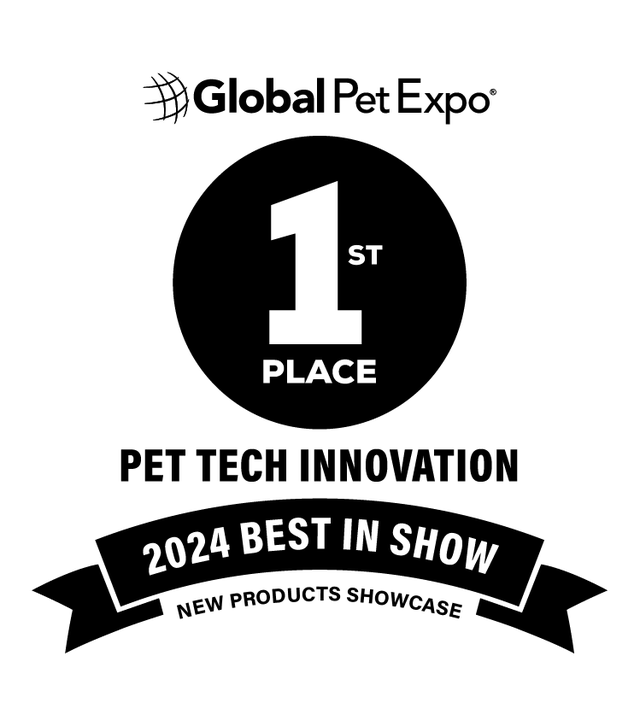
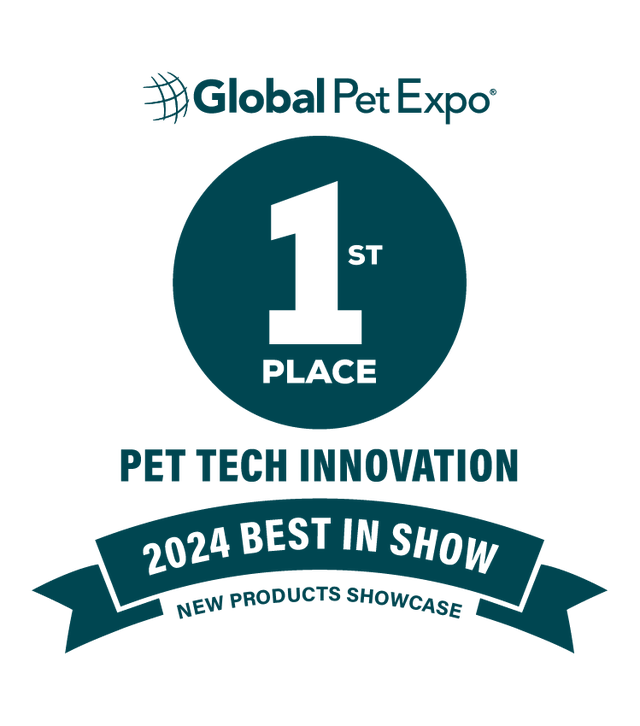
Awards: compact colour carousel instead of the 4-up monotone strip
- .awards-strip is now copy + controls (left) and a one-badge carousel
  (right): ~215px tall vs ~300px. Slides sit on brand washes (blush /
  periwinkle / mint / butter); badges render in deep teal via currentColor.
  The official GPE 2024 PNG was recoloured black -> #004651 in-canvas with
  alpha preserved.
- Carousel JS refactored into a reusable carousel() helper (track, prev/next,
  optional counter or dots, IntersectionObserver-driven index, autoplay that
  stops on interaction). Hero uses counter; awards use 4 dots, 3.5s.

QA: 69/69 (awards: 4 slides, captions, labels, text-in-band, compact
height, dots, relative next, dot jump, no console errors).

Changed region(s): [[0.0625, 0.0909, 0.9375, 0.9091]]

diff --git a/index.html b/index.html
@@ -249,15 +249,29 @@
   .logo-target { height: 30px; }
   .logo-petco { height: 24px; }
 
-  /* awards */
-  .awards-strip { background: var(--white); border: var(--teal-hair); border-radius: var(--r-card); padding: 1.05rem 1.35rem 1.25rem; margin-top: 1.15rem; box-shadow: var(--shadow); }
-  .awards-strip .label { font-size: .68rem; font-weight: 800; letter-spacing: .1em; text-transform: uppercase; color: var(--uproot-deep); margin-bottom: .9rem; }
-  .awards { margin: 0; padding: 0; list-style: none; display: grid; grid-template-columns: repeat(4, 1fr); gap: 1rem 1.5rem; }
-  .awards li { display: flex; flex-direction: column; align-items: center; text-align: center; gap: .6rem; }
-  .badge { display: block; height: 190px; width: auto; max-width: 100%; }
-  .awards figcaption { font-size: .86rem; font-weight: 700; color: var(--ink); line-height: 1.3; }
-  .awards figcaption small { display: block; font-size: .76rem; font-weight: 600; color: var(--muted); margin-top: .1rem; }
-  .badge text { font-family: var(--font); fill: #000; text-anchor: middle; font-weight: 800; }
+  /* awards: compact strip, one badge at a time */
+  .awards-strip {
+    margin-top: 1.15rem; background: var(--white); border: var(--teal-hair); border-radius: var(--r-card); box-shadow: var(--shadow);
+    display: grid; grid-template-columns: 1.1fr .9fr; align-items: center; gap: 1.25rem; padding: 1.1rem 1.35rem 1.1rem;
+  }
+  .awards-copy .label { font-size: .68rem; font-weight: 800; letter-spacing: .1em; text-transform: uppercase; color: var(--uproot-deep); margin-bottom: .45rem; }
+  .awards-h { margin: 0 0 .3rem; font-size: 1.25rem; font-weight: 800; letter-spacing: -.015em; color: var(--ink); line-height: 1.2; }
+  .awards-p { margin: 0 0 .9rem; font-size: .9rem; color: var(--muted); }
+  .car-btn-sm { width: 2rem; height: 2rem; font-size: .9rem; }
+  .dots { display: inline-flex; gap: .4rem; padding: 0 .25rem; }
+  .dot { width: .55rem; height: .55rem; border-radius: 50%; border: 0; padding: 0; background: rgba(0, 70, 81, .2); cursor: pointer; transition: .15s ease; }
+  .dot[aria-current="true"] { background: var(--uproot-blue); transform: scale(1.25); }
+  .award-track-wrap { border-radius: 16px; overflow: hidden; }
+  .award-slides { height: auto; scrollbar-width: none; }
+  .award-slide {
+    flex: 0 0 100%; margin: 0; height: 176px; scroll-snap-align: start; scroll-snap-stop: always;
+    display: flex; align-items: center; gap: 1rem; padding: .9rem 1.1rem; color: var(--uproot-deep);
+  }
+  .wash-blush { background: var(--blush); } .wash-periwinkle { background: var(--periwinkle); } .wash-mint { background: var(--mint); } .wash-butter { background: var(--butter); }
+  .badge { display: block; height: 150px; width: auto; flex-shrink: 0; }
+  .award-slide figcaption { font-size: 1rem; font-weight: 800; color: var(--ink); line-height: 1.25; }
+  .award-slide figcaption small { display: block; font-size: .82rem; font-weight: 600; color: var(--muted); margin-top: .2rem; }
+  .badge text { font-family: var(--font); fill: currentColor; text-anchor: middle; font-weight: 800; }
   .badge .b-show { font-size: 52px; letter-spacing: .02em; }
   .badge .b-one { fill: #fff; font-size: 210px; letter-spacing: -.04em; }
   .badge .b-st { fill: #fff; font-size: 44px; text-anchor: start; }
@@ -441,8 +455,9 @@
     .retailer-bar .names li + li { border-left: 0; padding-left: 0; }
     .retailer-bar .names { gap: .75rem 1.25rem; }
     .retailer-bar .doors { margin-left: 0; }
-    .awards { grid-template-columns: repeat(2, 1fr); gap: 1.25rem 1rem; }
-    .badge { height: 150px; }
+    .awards-strip { grid-template-columns: 1fr; gap: .9rem; }
+    .award-slide { height: 150px; }
+    .badge { height: 126px; }
     .hero-media { max-width: none; justify-self: stretch; }
     .hero-cap { flex-wrap: wrap; }
     .wait-actions { justify-content: flex-start; }
@@ -696,59 +711,70 @@ OTHER DEALINGS IN THE FONT SOFTWARE.
           <div class="doors"><b>10,000+</b> retail doors</div>
         </div>
 
-        <div class="awards-strip">
-          <div class="label">Award-winning</div>
-          <ul class="awards" aria-label="Industry awards">
-            <li>
-              <img class="badge" src="assets/award-gpe-2024.png" width="640" height="726" alt="Global Pet Expo 2024 New Products Showcase — 1st Place, Pet Tech Innovation, Best in Show" loading="lazy" />
+        <div class="awards-strip" id="awards-carousel" aria-roledescription="carousel" aria-label="Industry awards">
+          <div class="awards-copy">
+            <div class="label">Award-winning</div>
+            <p class="awards-h">Four first-place trophies in two years.</p>
+            <p class="awards-p">Best in Show at Global Pet Expo and SuperZoo, 2024 and 2026.</p>
+            <div class="car-nav">
+              <button class="car-btn car-btn-sm" type="button" id="aw-prev" aria-label="Previous award" aria-controls="award-slides">&larr;</button>
+              <div class="dots" id="aw-dots" role="group" aria-label="Choose award"></div>
+              <button class="car-btn car-btn-sm" type="button" id="aw-next" aria-label="Next award" aria-controls="award-slides">&rarr;</button>
+            </div>
+          </div>
+          <div class="award-track-wrap">
+            <div class="slides award-slides" id="award-slides" tabindex="0">
+              <figure class="award-slide wash-blush" role="group" aria-roledescription="slide" aria-label="1 of 4">
+                <img class="badge" src="assets/award-gpe-2024.png" width="640" height="726" alt="Global Pet Expo 2024 New Products Showcase — 1st Place, Pet Tech Innovation, Best in Show" loading="lazy" />
               <figcaption>Global Pet Expo 2024<small>Pet Tech Innovation</small></figcaption>
-            </li>
-            <li>
-              <svg class="badge" viewBox="0 0 640 726" role="img" aria-label="SuperZoo 2024 — 1st Place, Purina Petcare Innovation Launch Prize" focusable="false">
+              </figure>
+              <figure class="award-slide wash-periwinkle" role="group" aria-roledescription="slide" aria-label="2 of 4">
+                <svg class="badge" viewBox="0 0 640 726" role="img" aria-label="SuperZoo 2024 — 1st Place, Purina Petcare Innovation Launch Prize" focusable="false">
                 <text x="320" y="96" class="b-show">SUPERZOO</text>
-                <circle cx="320" cy="282" r="150" fill="#000"/>
+                <circle cx="320" cy="282" r="150" fill="currentColor"/>
                 <text x="296" y="322" class="b-one">1</text><text x="352" y="252" class="b-st">ST</text>
                 <text x="320" y="382" class="b-place">PLACE</text>
                 <text x="320" y="456" class="b-cat b-cat-2">INNOVATION</text><text x="320" y="490" class="b-cat b-cat-2">LAUNCH PRIZE</text>
-                <polygon points="30,548 92,530 92,624 30,606 58,577" fill="#000"/>
-                <polygon points="610,548 548,530 548,624 610,606 582,577" fill="#000"/>
-                <rect x="80" y="518" width="480" height="122" rx="6" fill="#000"/>
+                <polygon points="30,548 92,530 92,624 30,606 58,577" fill="currentColor"/>
+                <polygon points="610,548 548,530 548,624 610,606 582,577" fill="currentColor"/>
+                <rect x="80" y="518" width="480" height="122" rx="6" fill="currentColor"/>
                 <text x="320" y="575" class="b-r1">2024 WINNER</text>
                 <text x="320" y="618" class="b-r2">PURINA PETCARE</text>
               </svg>
               <figcaption>SuperZoo 2024<small>Innovation Launch Prize</small></figcaption>
-            </li>
-            <li>
-              <svg class="badge" viewBox="0 0 640 726" role="img" aria-label="Global Pet Expo 2026 New Products Showcase — 1st Place, Pet Tech Innovation, Best in Show" focusable="false">
+              </figure>
+              <figure class="award-slide wash-mint" role="group" aria-roledescription="slide" aria-label="3 of 4">
+                <svg class="badge" viewBox="0 0 640 726" role="img" aria-label="Global Pet Expo 2026 New Products Showcase — 1st Place, Pet Tech Innovation, Best in Show" focusable="false">
                 <text x="320" y="96" class="b-show">GLOBAL PET EXPO</text>
-                <circle cx="320" cy="282" r="150" fill="#000"/>
+                <circle cx="320" cy="282" r="150" fill="currentColor"/>
                 <text x="296" y="322" class="b-one">1</text><text x="352" y="252" class="b-st">ST</text>
                 <text x="320" y="382" class="b-place">PLACE</text>
                 <text x="320" y="462" class="b-cat">PET TECH INNOVATION</text>
-                <polygon points="30,548 92,530 92,624 30,606 58,577" fill="#000"/>
-                <polygon points="610,548 548,530 548,624 610,606 582,577" fill="#000"/>
-                <rect x="80" y="518" width="480" height="122" rx="6" fill="#000"/>
+                <polygon points="30,548 92,530 92,624 30,606 58,577" fill="currentColor"/>
+                <polygon points="610,548 548,530 548,624 610,606 582,577" fill="currentColor"/>
+                <rect x="80" y="518" width="480" height="122" rx="6" fill="currentColor"/>
                 <text x="320" y="575" class="b-r1">2026 BEST IN SHOW</text>
                 <text x="320" y="618" class="b-r2">NEW PRODUCTS SHOWCASE</text>
               </svg>
               <figcaption>Global Pet Expo 2026<small>Pet Tech Innovation</small></figcaption>
-            </li>
-            <li>
-              <svg class="badge" viewBox="0 0 640 726" role="img" aria-label="SuperZoo 2026 New Product Showcase — 1st Place, Home & Lifestyle" focusable="false">
+              </figure>
+              <figure class="award-slide wash-butter" role="group" aria-roledescription="slide" aria-label="4 of 4">
+                <svg class="badge" viewBox="0 0 640 726" role="img" aria-label="SuperZoo 2026 New Product Showcase — 1st Place, Home & Lifestyle" focusable="false">
                 <text x="320" y="96" class="b-show">SUPERZOO</text>
-                <circle cx="320" cy="282" r="150" fill="#000"/>
+                <circle cx="320" cy="282" r="150" fill="currentColor"/>
                 <text x="296" y="322" class="b-one">1</text><text x="352" y="252" class="b-st">ST</text>
                 <text x="320" y="382" class="b-place">PLACE</text>
                 <text x="320" y="462" class="b-cat">HOME &amp; LIFESTYLE</text>
-                <polygon points="30,548 92,530 92,624 30,606 58,577" fill="#000"/>
-                <polygon points="610,548 548,530 548,624 610,606 582,577" fill="#000"/>
-                <rect x="80" y="518" width="480" height="122" rx="6" fill="#000"/>
+                <polygon points="30,548 92,530 92,624 30,606 58,577" fill="currentColor"/>
+                <polygon points="610,548 548,530 548,624 610,606 582,577" fill="currentColor"/>
+                <rect x="80" y="518" width="480" height="122" rx="6" fill="currentColor"/>
                 <text x="320" y="573" class="b-r1 b-r1-long">2026 BEST NEW PRODUCT</text>
                 <text x="320" y="618" class="b-r2">NEW PRODUCT SHOWCASE</text>
               </svg>
               <figcaption>SuperZoo 2026<small>Home &amp; Lifestyle</small></figcaption>
-            </li>
-          </ul>
+              </figure>
+            </div>
+          </div>
         </div>
 
         <div class="trio">
@@ -992,22 +1018,34 @@ OTHER DEALINGS IN THE FONT SOFTWARE.
     'use strict';
     document.getElementById('year').textContent = String(new Date().getFullYear());
 
-    // ---- team photo carousel (scroll-snap track; buttons + keys + autoplay) ----
-    (function () {
-      var track = document.getElementById('team-slides');
-      if (!track) return;
-      var idx = document.getElementById('car-idx');
+    // ---- carousel: scroll-snap track + buttons + arrow keys + optional dots + autoplay ----
+    function carousel(o) {
+      var wrap = document.getElementById(o.root), track = document.getElementById(o.track);
+      if (!wrap || !track) return;
       var n = track.children.length;
+      var idx = o.idx && document.getElementById(o.idx);
+      var dots = o.dots && document.getElementById(o.dots);
       var reduce = window.matchMedia && window.matchMedia('(prefers-reduced-motion: reduce)').matches;
       var current = function () { return Math.round(track.scrollLeft / track.clientWidth); };
-      var setIdx = function (i) { idx.textContent = (i + 1) + ' / ' + n; };
+      if (dots) {
+        for (var d = 0; d < n; d++) {
+          var b = document.createElement('button'); b.type = 'button'; b.className = 'dot';
+          b.setAttribute('aria-label', 'Go to item ' + (d + 1)); b.setAttribute('data-i', d);
+          b.addEventListener('click', function () { go(+this.getAttribute('data-i')); stop(); });
+          dots.appendChild(b);
+        }
+      }
+      var setIdx = function (i) {
+        if (idx) idx.textContent = (i + 1) + ' / ' + n;
+        if (dots) Array.prototype.forEach.call(dots.children, function (b, k) { b.setAttribute('aria-current', k === i ? 'true' : 'false'); });
+      };
       var go = function (i) {
         i = (i + n) % n;
         track.scrollTo({ left: i * track.clientWidth, behavior: reduce ? 'auto' : 'smooth' });
         setIdx(i);
       };
-      document.getElementById('car-prev').addEventListener('click', function () { go(current() - 1); stop(); });
-      document.getElementById('car-next').addEventListener('click', function () { go(current() + 1); stop(); });
+      document.getElementById(o.prev).addEventListener('click', function () { go(current() - 1); stop(); });
+      document.getElementById(o.next).addEventListener('click', function () { go(current() + 1); stop(); });
       track.addEventListener('keydown', function (e) {
         if (e.key === 'ArrowRight') { go(current() + 1); stop(); e.preventDefault(); }
         if (e.key === 'ArrowLeft')  { go(current() - 1); stop(); e.preventDefault(); }
@@ -1017,22 +1055,23 @@ OTHER DEALINGS IN THE FONT SOFTWARE.
         var io = new IntersectionObserver(function (entries) {
           entries.forEach(function (e) { if (e.isIntersecting) setIdx(Array.prototype.indexOf.call(track.children, e.target)); });
         }, { root: track, threshold: 0.6 });
-        Array.prototype.forEach.call(track.children, function (s) { io.observe(s); });
+        Array.prototype.forEach.call(track.children, function (sl) { io.observe(sl); });
       } else {
         var t;
         track.addEventListener('scroll', function () { clearTimeout(t); t = setTimeout(function () { setIdx(current()); }, 80); }, { passive: true });
       }
       // autoplay: gentle, and it stops the moment the visitor touches it
       var timer = null;
-      function start() { if (reduce || n < 2 || timer) return; timer = setInterval(function () { go(current() + 1); }, 6000); }
+      function start() { if (reduce || n < 2 || timer) return; timer = setInterval(function () { go(current() + 1); }, o.every || 6000); }
       function stop() { clearInterval(timer); timer = null; }
-      var wrap = document.getElementById('team-carousel');
       wrap.addEventListener('mouseenter', stop); wrap.addEventListener('focusin', stop);
       wrap.addEventListener('touchstart', stop, { passive: true }); wrap.addEventListener('pointerdown', stop);
       document.addEventListener('visibilitychange', function () { document.hidden ? stop() : start(); });
       window.addEventListener('resize', function () { go(current()); });
-      start();
-    })();
+      setIdx(0); start();
+    }
+    carousel({ root: 'team-carousel', track: 'team-slides', prev: 'car-prev', next: 'car-next', idx: 'car-idx', every: 6000 });
+    carousel({ root: 'awards-carousel', track: 'award-slides', prev: 'aw-prev', next: 'aw-next', dots: 'aw-dots', every: 3500 });
 
     var BOARD = 'uprootclean';
     var API = 'https://api.ashbyhq.com/posting-api/job-board/' + BOARD;

diff --git a/qa/qa.js b/qa/qa.js
@@ -77,13 +77,22 @@ const ok = (name, cond, detail) => (cond ? report.pass : report.fail).push(name 
     ok('hire: 5 columns at 1280', stepCols5 === 5, `${stepCols5}`);
     ok('hire: step cards equal height, no text overflow', await page.evaluate(() => { const c = [...document.querySelectorAll('.step')]; const hs = c.map(e => e.getBoundingClientRect().height); return Math.max(...hs) - Math.min(...hs) < 1 && c.every(e => e.scrollHeight <= e.clientHeight + 1); }));
     ok('company: Featured-in removed', (await page.locator('.press, .proof').count()) === 0);
-    const aw = await page.$$eval('.awards li', ls => ls.map(l => ({ cap: [...l.querySelector('figcaption').childNodes].map(n => n.textContent.trim()).filter(Boolean).join(' '), kind: l.querySelector('img.badge') ? 'img' : (l.querySelector('svg.badge') ? 'svg' : 'none'), label: (l.querySelector('.badge').getAttribute('alt') || l.querySelector('.badge').getAttribute('aria-label')), h: l.querySelector('.badge').getBoundingClientRect().height, w: l.querySelector('.badge').getBoundingClientRect().width })));
-    ok('company: 4 award badges (1 official png + 3 svg)', aw.length === 4 && aw.map(a => a.kind).join() === 'img,svg,svg,svg', aw.map(a => a.kind).join());
-    ok('company: award captions', aw.map(a => a.cap).join('|') === 'Global Pet Expo 2024 Pet Tech Innovation|SuperZoo 2024 Innovation Launch Prize|Global Pet Expo 2026 Pet Tech Innovation|SuperZoo 2026 Home & Lifestyle', aw.map(a => a.cap).join('|'));
-    ok('company: badges labelled + rendered at equal height', aw.every(a => a.label && a.label.length > 20 && Math.abs(a.h - 190) < 1 && a.w > 100), JSON.stringify(aw.map(a => [Math.round(a.w), Math.round(a.h)])));
-    ok('company: official 2024 badge decoded', await page.evaluate(() => { const i = document.querySelector('img.badge'); return i.complete && i.naturalWidth === 640; }));
-    ok('company: badge text stays inside its band (ribbon text within 80–560, others within 20–620)', await page.evaluate(() => [...document.querySelectorAll('svg.badge text')].every(tx => { const b = tx.getBBox(); const ribbon = /b-r[12]/.test(tx.getAttribute('class')); const lo = ribbon ? 84 : 20, hi = ribbon ? 556 : 620; return b.x >= lo && b.x + b.width <= hi; })), await page.evaluate(() => [...document.querySelectorAll('svg.badge text')].map(tx => { const b = tx.getBBox(); return tx.textContent + ':' + Math.round(b.x) + '-' + Math.round(b.x + b.width); }).join(', ')));
-    ok('company: category text clears the ribbon', await page.evaluate(() => [...document.querySelectorAll('svg.badge .b-cat')].every(tx => { const b = tx.getBBox(); return b.y + b.height <= 512; })));
+    const aw = await page.$$eval('.award-slide', ls => ls.map(l => ({ cap: [...l.querySelector('figcaption').childNodes].map(n => n.textContent.trim()).filter(Boolean).join(' '), kind: l.querySelector('img.badge') ? 'img' : (l.querySelector('svg.badge') ? 'svg' : 'none'), label: (l.querySelector('.badge').getAttribute('alt') || l.querySelector('.badge').getAttribute('aria-label')), h: l.querySelector('.badge').getBoundingClientRect().height })));
+    ok('awards: 4 slides (1 official png + 3 svg)', aw.length === 4 && aw.map(a => a.kind).join() === 'img,svg,svg,svg', aw.map(a => a.kind).join());
+    ok('awards: captions', aw.map(a => a.cap).join('|') === 'Global Pet Expo 2024 Pet Tech Innovation|SuperZoo 2024 Innovation Launch Prize|Global Pet Expo 2026 Pet Tech Innovation|SuperZoo 2026 Home & Lifestyle', aw.map(a => a.cap).join('|'));
+    ok('awards: badges labelled, 150px tall', aw.every(a => a.label && a.label.length > 20 && Math.abs(a.h - 150) < 1), JSON.stringify(aw.map(a => Math.round(a.h))));
+    ok('awards: official 2024 badge decoded', await page.evaluate(() => { const i = document.querySelector('img.badge'); return i.complete && i.naturalWidth === 640; }));
+    ok('awards: badge text stays inside its band', await page.evaluate(() => [...document.querySelectorAll('svg.badge text')].every(tx => { const b = tx.getBBox(); const ribbon = /b-r[12]/.test(tx.getAttribute('class')); const lo = ribbon ? 84 : 20, hi = ribbon ? 556 : 620; return b.x >= lo && b.x + b.width <= hi; })));
+    ok('awards: strip is compact (< 220px tall at 1280)', await page.evaluate(() => document.querySelector('.awards-strip').getBoundingClientRect().height < 220), await page.evaluate(() => Math.round(document.querySelector('.awards-strip').getBoundingClientRect().height) + 'px'));
+    ok('awards: 4 dots, first current', (await page.locator('#aw-dots .dot').count()) === 4 && (await page.locator('#aw-dots .dot').first().getAttribute('aria-current')) === 'true');
+    const before = await page.evaluate(() => { const t = document.getElementById('award-slides'); return Math.round(t.scrollLeft / t.clientWidth); });
+    await page.click('#aw-next');
+    await page.waitForFunction(b => { const t = document.getElementById('award-slides'); return Math.abs(t.scrollLeft - ((b + 1) % 4) * t.clientWidth) < 2; }, before, { timeout: 3000 }).catch(() => {});
+    ok('awards: next advances one slide and moves the dot', await page.evaluate(b => { const t = document.getElementById('award-slides'); const want = (b + 1) % 4; return Math.abs(t.scrollLeft - want * t.clientWidth) < 2 && document.querySelectorAll('#aw-dots .dot')[want].getAttribute('aria-current') === 'true'; }, before), `from ${before}`);
+    await page.click('#aw-dots .dot:nth-child(4)');
+    await page.waitForFunction(() => { const t = document.getElementById('award-slides'); return Math.abs(t.scrollLeft - 3 * t.clientWidth) < 2; }, null, { timeout: 3000 }).catch(() => {});
+    ok('awards: dot 4 jumps to slide 4', await page.evaluate(() => { const t = document.getElementById('award-slides'); return Math.abs(t.scrollLeft - 3 * t.clientWidth) < 2; }));
+    ok('awards: no console errors after carousel use', consoleErrors.length === 0, consoleErrors.join(' | '));
     // retailer logos
     const logos = await page.$$eval('.retailer-bar .logo-svg', els => els.map(e => ({ name: e.getAttribute('aria-label'), w: e.getBoundingClientRect().width, h: e.getBoundingClientRect().height })));
     ok('retailers: 4 logo SVGs with labels', logos.length === 4 && logos.map(l => l.name).join() === 'Amazon,Walmart,Target,Petco', logos.map(l => l.name).join());

diff --git a/README.md b/README.md
@@ -54,7 +54,7 @@ The hero's right column is a two-photo carousel (`#team-carousel`) of the team a
 `<picture>` serves WebP with JPEG fallback; `srcset`/`sizes` pick the width. Every image has a
 descriptive `alt`. The originals (4000×5000) are not in the repo.
 
-How it works: a horizontal `scroll-snap` track, so touch swipe is native. Prev/next buttons and
+How it works (shared `carousel()` helper, also used for the awards strip): a horizontal `scroll-snap` track, so touch swipe is native. Prev/next buttons and
 ←/→ keys (when the track is focused) call `scrollTo`; a `1 / 2` counter follows the scroll
 position. Autoplay advances every 6 s and stops permanently on hover, focus, touch or click, and
 is disabled under `prefers-reduced-motion`. No library.
@@ -65,11 +65,14 @@ and controls pick up the new count automatically.
 
 ## Award badges
 
-"Award-winning" in The Company shows four badges (`.awards-strip`):
+"Award-winning" in The Company is a compact strip (`.awards-strip`): copy + controls on the left, a
+one-badge-at-a-time carousel on the right (same `carousel()` helper as the hero; autoplays every
+3.5 s, dots + arrows, stops on interaction). Each slide sits on a brand wash (blush / periwinkle /
+mint / butter) and every badge is rendered in deep teal (`--uproot-deep`):
 
 | Badge | Source | Fact basis |
 |---|---|---|
-| Global Pet Expo 2024 · Pet Tech Innovation | **Official** — `assets/award-gpe-2024.png`, the file already used on uprootclean.com | Best in Show, New Products Showcase, Apr 2024 |
+| Global Pet Expo 2024 · Pet Tech Innovation | **Official** — `assets/award-gpe-2024.png`, the file already used on uprootclean.com, recoloured black → deep teal (alpha preserved) | Best in Show, New Products Showcase, Apr 2024 |
 | SuperZoo 2024 · Innovation Launch Prize | Recreated inline SVG | 1st Place Purina Petcare Innovation Launch Prize, Aug 2024 (NPS entry was 1st runner-up) |
 | Global Pet Expo 2026 · Pet Tech Innovation | Recreated inline SVG | Best in Show, Laundry Cycle Pro, Mar 2026 |
 | SuperZoo 2026 · Home & Lifestyle | Recreated inline SVG | 1st Place Best New Product, Washing Machine Cleaner Pro, Aug 2026 |
@@ -124,12 +127,12 @@ Playwright is pinned to **exactly 1.55.0** (matches the Chromium build already c
 machine; `^` ranges drift to newer Playwright releases that demand a browser download).
 Screenshots land in `qa/screenshots/` (git-ignored).
 
-Checks (65): desktop 1280 + mobile 375, live Ashby render, hero count = list count, department
+Checks (69): desktop 1280 + mobile 375, live Ashby render, hero count = list count, department
 filters, link integrity (Ashby URL + UTM + `target=_blank rel=noopener`), in-page anchors, skip
 link, Poppins loaded, no console errors, no horizontal overflow, carousel (both photos decode and
 are 4:5, frame is 4:5, next/prev/wrap/arrow-key/swipe all update the counter, WebP offered, track
 doesn't widen the page, caption text exact), badge inside the photo, 4 labelled retailer logos with
 no leaked CSS, API-down / API-empty / hostile-title paths, and round-4 copy (nav labels, 10,000+ doors, Why Join headline, six benefit
 cards with amounts), interview steps (1, 2, 3, 3a, 4; 3a flagged as select-roles-only; 5-up grid at 1280;
-equal card heights, no overflow), award strip (Featured-in gone; 1 official + 3 SVG badges, labelled, equal height,
-text inside its band). Last run 2026-09-17: all green.
+equal card heights, no overflow), award carousel (Featured-in gone; 1 official + 3 SVG badges, labelled, text inside its band, strip
+< 220 px tall, 4 dots, next/dot navigation). Last run 2026-09-17: all green.
